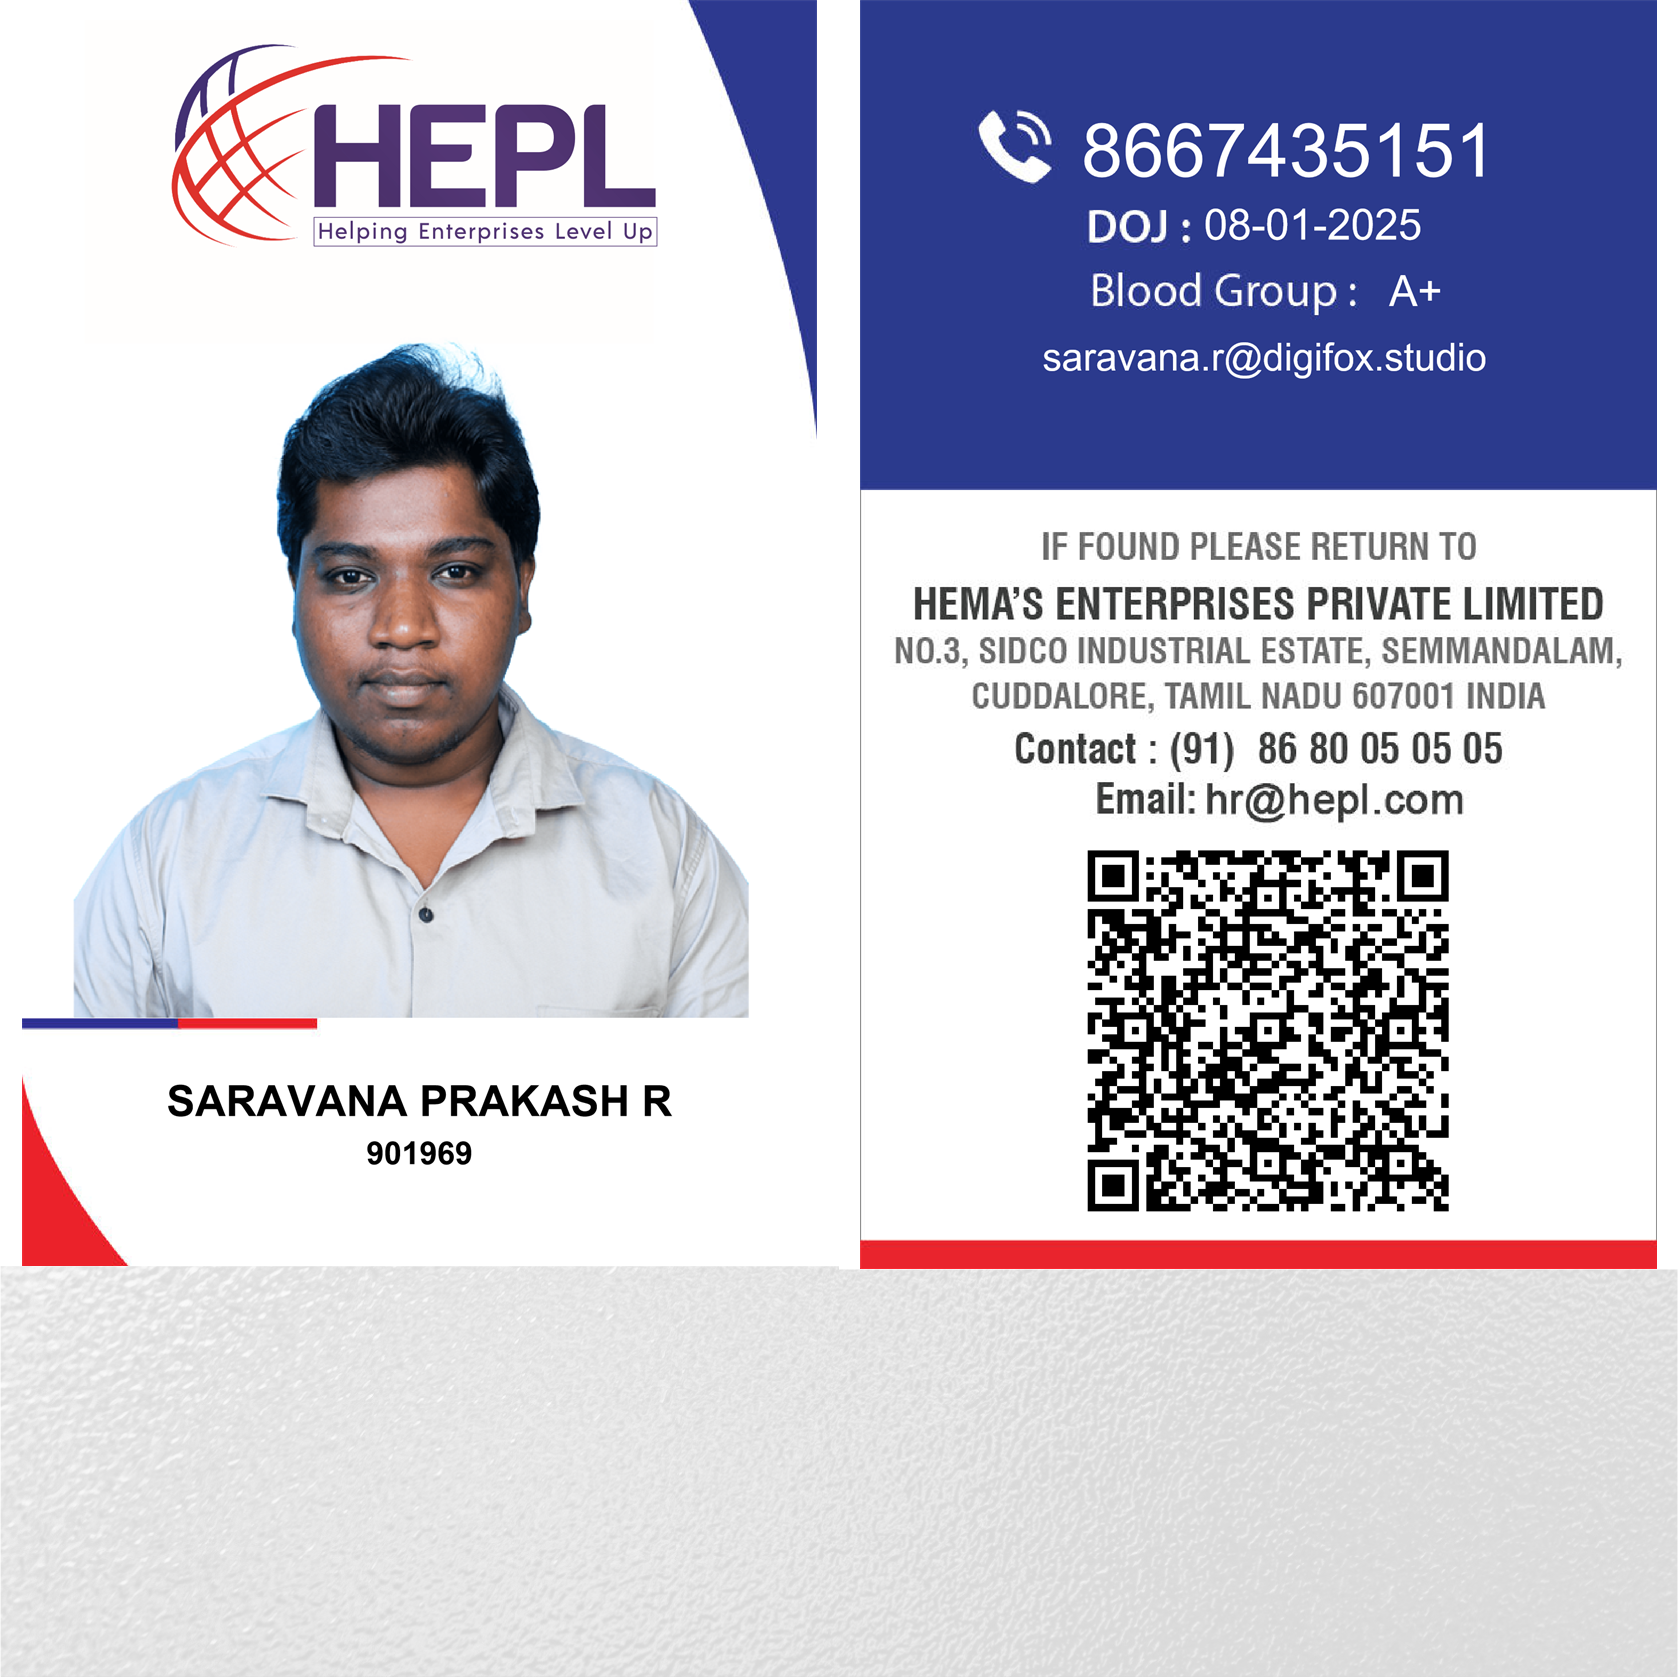
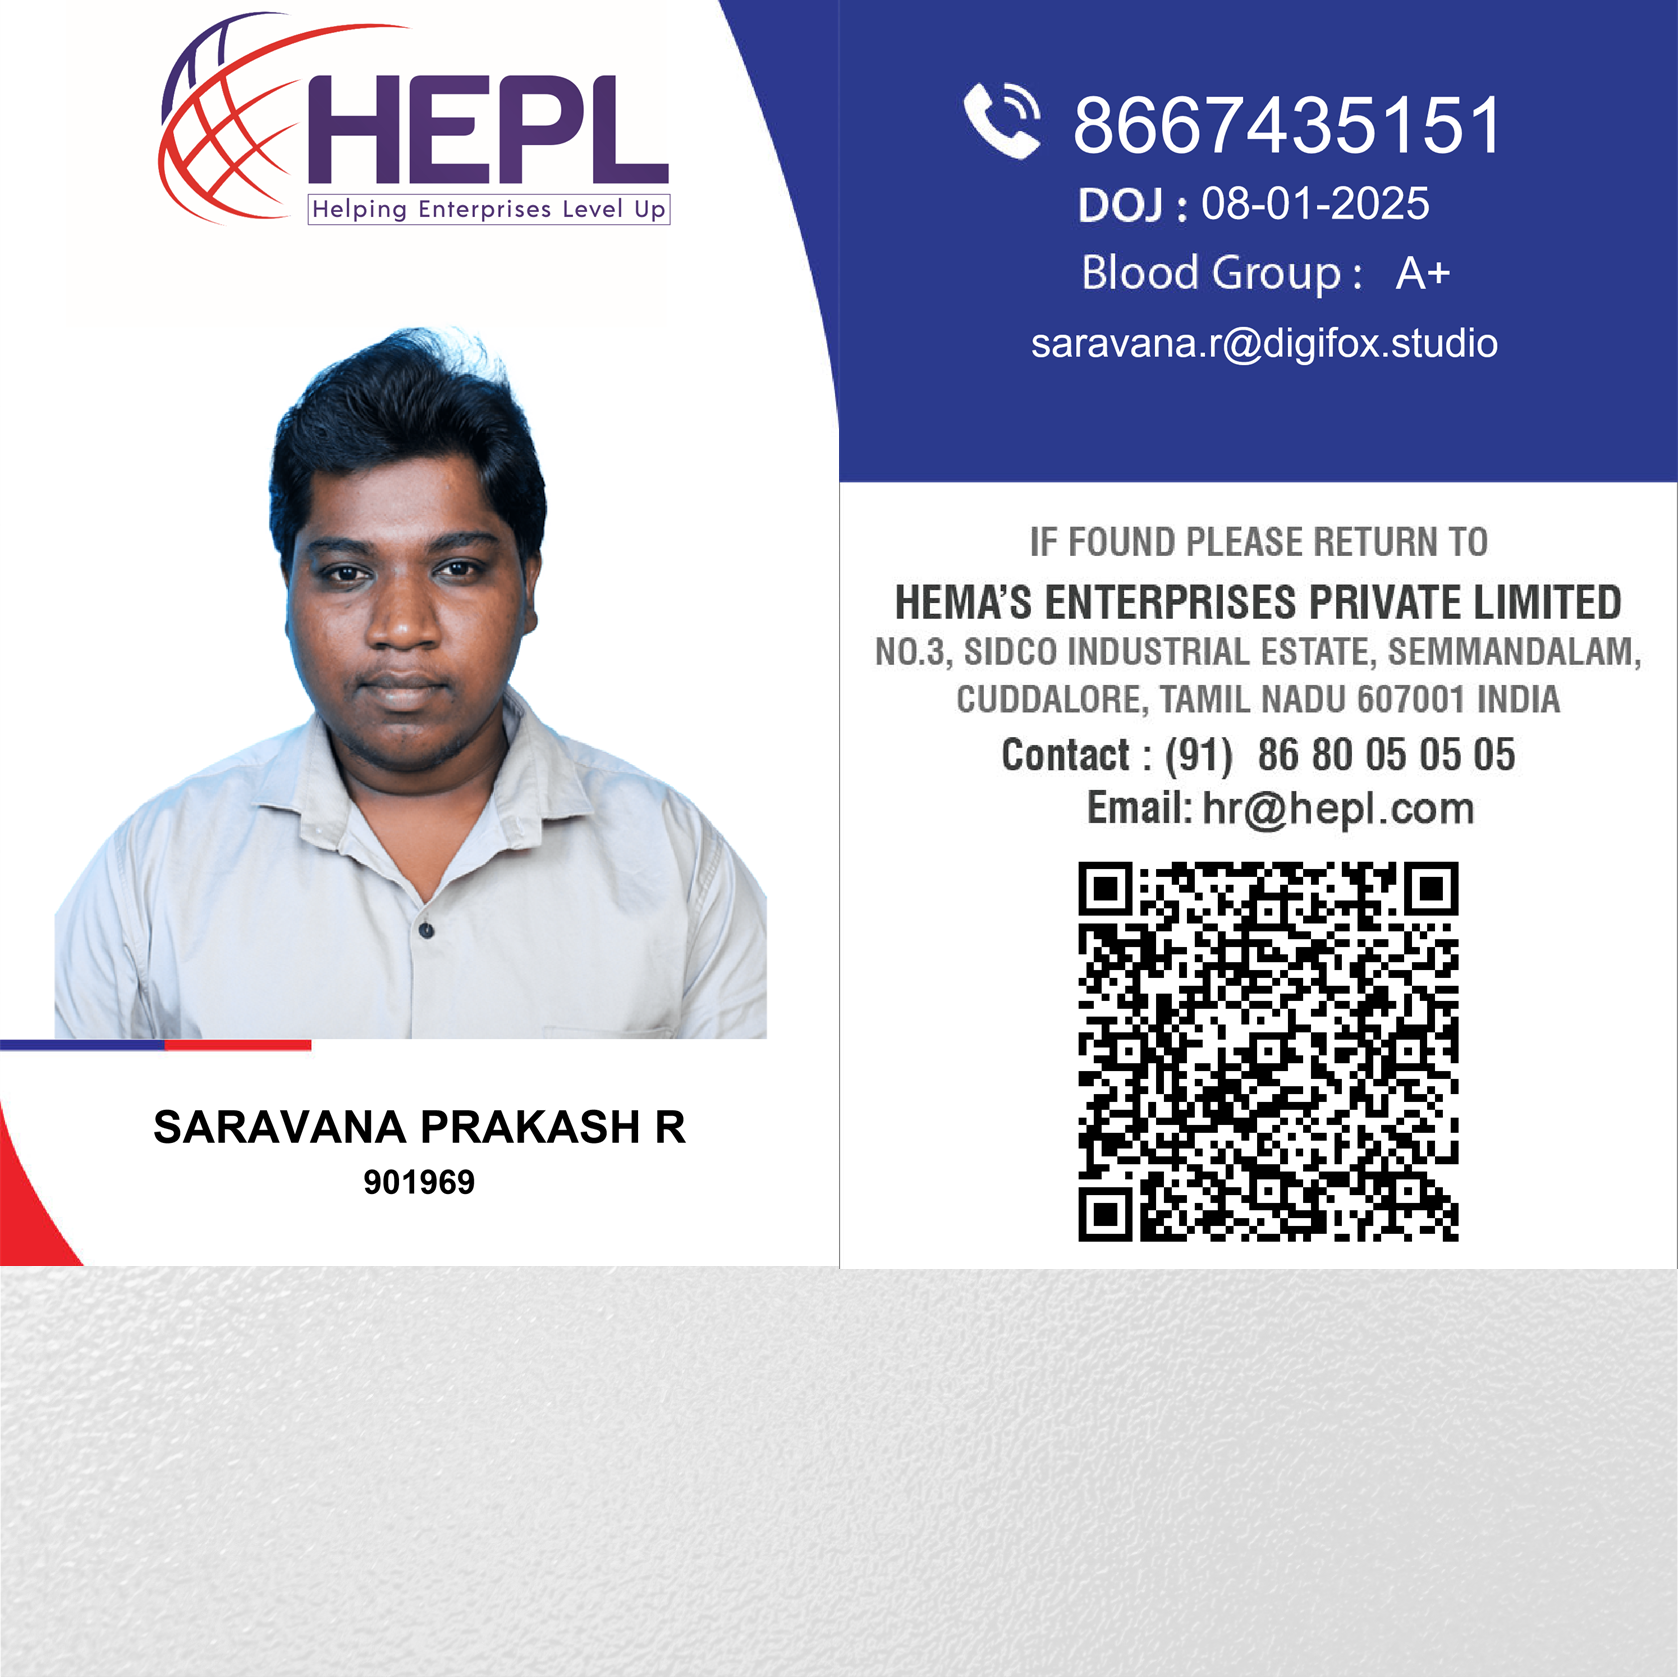
feat: update lanyard with user 4:1 image and crop ID card texture edge-to-edge
- Applied user-provided 4:1 aspect ratio HEPL lanyard strap texture
- Recomposited ID card front & back with crop-to-fit (cover mode with bleed), removing all left and right white margin lines
- Unmirrored lanyard strap UV coordinates so HEPL logo and text read correctly

diff --git a/assets/lanyard-3d.js b/assets/lanyard-3d.js
@@ -420,11 +420,11 @@
                 const vIndex = i * 2;
                 // Left vertex
                 posAttr.setXYZ(vIndex, pt.x - normal.x * halfW, pt.y - normal.y * halfW, pt.z - normal.z * halfW);
-                uvAttr.setXY(vIndex, (1.0 - t) * 1.6, 1);
+                uvAttr.setXY(vIndex, (1.0 - t) * 1.5, 0);
 
                 // Right vertex
                 posAttr.setXYZ(vIndex + 1, pt.x + normal.x * halfW, pt.y + normal.y * halfW, pt.z + normal.z * halfW);
-                uvAttr.setXY(vIndex + 1, (1.0 - t) * 1.6, 0);
+                uvAttr.setXY(vIndex + 1, (1.0 - t) * 1.5, 1);
             }
 
             posAttr.needsUpdate = true;
